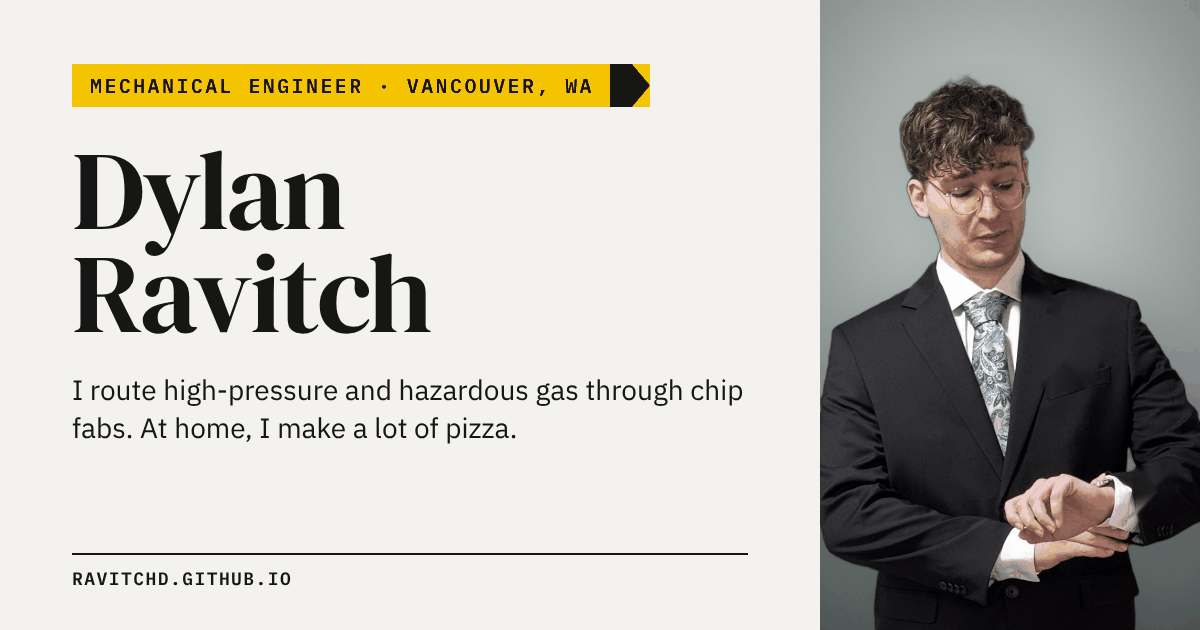
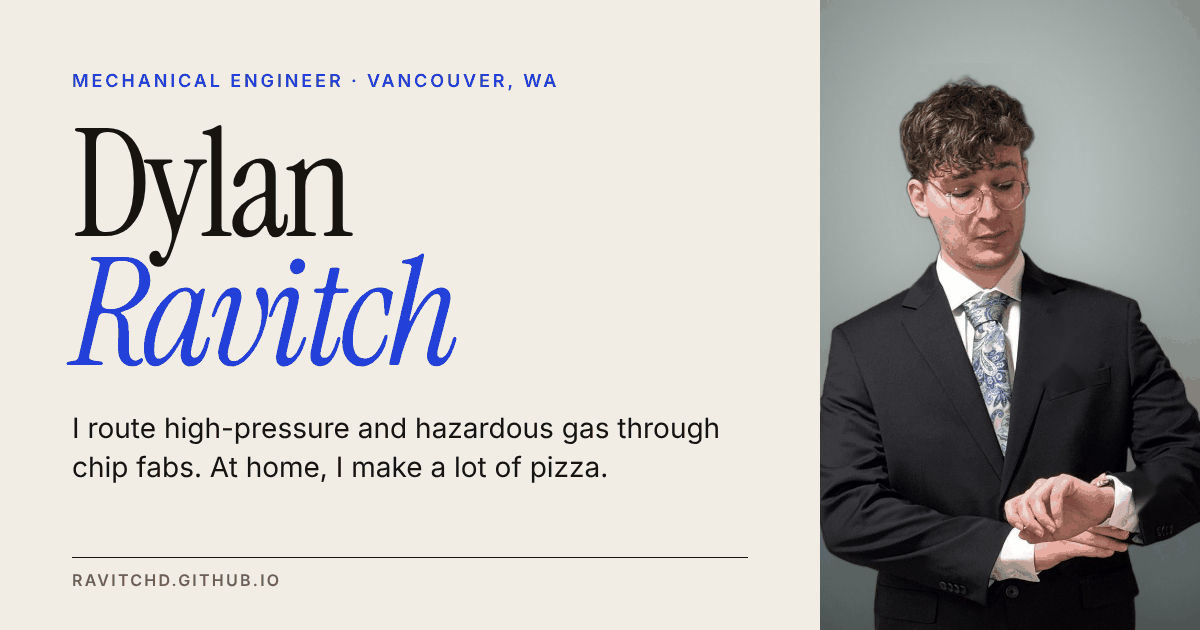
Restore the original fonts and colors, keep the content changes
Dylan preferred Instrument Serif, Inter, cream and cobalt. Bring back
the original global styles, header, favicon and 3D model color, and
redraw the share image in that look. The copy, cuts and redirects stay.

Claude-Session: https://claude.ai/code/session_014t9fN8GL4o5v9xoBywoBxs

Changed region(s): [[0.0617, 0.0905, 0.6167, 0.754], [0.0617, 0.8746, 0.6167, 0.9349], [0.8017, 0.3317, 0.8325, 0.3619]]

diff --git a/src/styles/global.css b/src/styles/global.css
@@ -1,36 +1,30 @@
-/* Everything visual hangs off the tokens below. */
+/* Editorial: the site reads like a magazine profile.
+   Everything visual hangs off the tokens below. */
 :root {
-  /* Paper, ink and graphite, with two working colors borrowed from a fab:
-     marker yellow (ASME A13.1 pipe-marker bands, for labels and link underlines)
-     and redline red (design-review markups, for notes only). */
-  --bg: #f3f2ee;
-  --surface: #f9f8f5;
-  --text: #161615;
-  --muted: #5d5c57;
-  --border: #d3d1c9;
-  --rule: #161615;
-  --accent: #161615;
-  --on-accent: #f3f2ee;
-  --accent-soft: #ebe9e3;
-  --marker: #f5c400;
-  --marker-ink: #161615;
-  --redline: #c8231b;
-  --model: #c8c0a9;
-  --glow-1: #ebe9e3;
-  --glow-2: #e6e4dd;
+  /* Editorial: warm newsprint, ink and one cobalt accent. */
+  --bg: #f1ede4;
+  --surface: #f7f4ec;
+  --text: #17140f;
+  --muted: #6c6457;
+  --border: #d9d1c2;
+  --rule: #17140f;
+  --accent: #2340d8;
+  --on-accent: #ffffff;
+  --accent-soft: #e2e5f6;
+  --glow-1: #e2e5f6;
+  --glow-2: #ece6d8;
   --radius: 0px;
   --pill: 0px;
   --max: 1120px;
-  --display: 'DM Serif Display', Georgia, 'Times New Roman', serif;
-  --sans: 'IBM Plex Sans', system-ui, -apple-system, 'Segoe UI', sans-serif;
-  --mono: 'IBM Plex Mono', ui-monospace, 'SFMono-Regular', Menlo, monospace;
+  --display: 'Instrument Serif', Georgia, serif;
+  --sans: 'Inter', system-ui, -apple-system, 'Segoe UI', sans-serif;
   --heading-weight: 400;
-  --heading-tracking: -0.01em;
-  --h1: clamp(2.7rem, 6.2vw, 5rem);
-  --h2: clamp(1.9rem, 3.4vw, 2.6rem);
-  --h3: 1.45rem;
+  --heading-tracking: -0.012em;
+  --h1: clamp(3rem, 7.2vw, 5.8rem);
+  --h2: clamp(2rem, 3.6vw, 2.8rem);
+  --h3: 1.55rem;
   --label-size: 0.72rem;
-  --label-tracking: 0.12em;
+  --label-tracking: 0.16em;
   color-scheme: light;
 }
 
@@ -58,17 +52,12 @@ h1, h2, h3 {
 h1 { font-size: var(--h1); line-height: 0.98; }
 h2 { font-size: var(--h2); }
 h3 { font-size: var(--h3); }
-h1 em, h2 em { font-style: italic; }
+h1 em, h2 em { font-style: italic; color: var(--accent); }
 
 p { margin: 0 0 1em; }
 
-a {
-  color: var(--text);
-  text-decoration-color: var(--marker);
-  text-decoration-thickness: 3px;
-  text-underline-offset: 3px;
-}
-a:hover { text-decoration-thickness: 0.5em; text-underline-offset: -0.28em; text-decoration-skip-ink: none; }
+a { color: var(--accent); text-underline-offset: 3px; }
+a:hover { text-decoration-thickness: 2px; }
 
 img { max-width: 100%; height: auto; }
 
@@ -82,40 +71,14 @@ button, input, select, textarea { font: inherit; }
 }
 @media (max-width: 600px) { .container { padding: 0 16px; } }
 
-/* Pipe marker: the yellow band and flow arrow used on gas lines in a fab.
-   Labels a section; the arrow points the way the page reads. */
-.eyebrow {
-  display: inline-flex;
-  align-items: stretch;
-  gap: 0.7em;
-  width: fit-content;
-  background: var(--marker);
-  color: var(--marker-ink);
-  font-family: var(--mono);
+/* Small all-caps label above a heading */
+.eyebrow, .label {
+  font-family: var(--sans);
   font-size: var(--label-size);
   font-weight: 600;
   letter-spacing: var(--label-tracking);
-  line-height: 1.2;
   text-transform: uppercase;
-  padding: 0.34em 0 0.34em 0.8em;
-  margin-bottom: 1rem;
-}
-.eyebrow::after {
-  content: '';
-  width: 1.8em;
-  margin-block: -0.34em;
-  background: var(--marker-ink);
-  clip-path: polygon(0 0, 55% 0, 100% 50%, 55% 100%, 0 100%);
-}
-
-/* Small mono label for specs and metadata */
-.label {
-  font-family: var(--mono);
-  font-size: var(--label-size);
-  font-weight: 500;
-  letter-spacing: 0.08em;
-  text-transform: uppercase;
-  color: var(--muted);
+  color: var(--accent);
   margin-bottom: 0.9rem;
 }
 
@@ -139,19 +102,18 @@ button, input, select, textarea { font: inherit; }
 }
 .btn:hover { background: var(--text); color: var(--bg); text-decoration: none; }
 .btn.primary { background: var(--text); border-color: var(--text); color: var(--bg); }
-.btn.primary:hover { background: var(--marker); border-color: var(--marker); color: var(--marker-ink); }
+.btn.primary:hover { background: var(--accent); border-color: var(--accent); color: var(--on-accent); }
 
-/* Tags read as a spec line: TOOL · MATERIAL · PROCESS */
 .tag {
   display: inline-block;
+  padding: 0.12rem 0.5rem;
+  border-radius: var(--pill);
+  border: 1px solid var(--border);
   color: var(--muted);
-  font-family: var(--mono);
-  font-size: 0.72rem;
+  font-size: 0.74rem;
   font-weight: 500;
-  letter-spacing: 0.06em;
-  text-transform: uppercase;
+  letter-spacing: 0.02em;
 }
-.tag + .tag::before { content: '·'; margin: 0 0.55em 0 0; color: var(--border); }
 
 .grid {
   display: grid;
@@ -173,8 +135,8 @@ button, input, select, textarea { font: inherit; }
 }
 .card h3 { margin: 0; transition: color 0.2s ease; }
 .card p { margin: 0; color: var(--muted); font-size: 0.97rem; }
-a.card:hover h3 { text-decoration: underline; text-decoration-color: var(--marker); text-decoration-thickness: 3px; text-underline-offset: 4px; }
-.card .tags { display: flex; flex-wrap: wrap; gap: 4px 0.55em; margin-top: auto; padding-top: 0.5rem; }
+a.card:hover h3 { color: var(--accent); }
+.card .tags { display: flex; flex-wrap: wrap; gap: 6px; margin-top: auto; padding-top: 0.5rem; }
 
 .card .arrow {
   position: absolute;
@@ -200,16 +162,16 @@ a.card:hover .arrow, a.card:focus-visible .arrow { opacity: 1; transform: none; 
 }
 .section-head h2 { margin: 0; }
 .section-head a { color: var(--text); text-decoration: none; font-size: 0.9rem; font-weight: 500; }
-.section-head a:hover { text-decoration: underline; text-decoration-color: var(--marker); text-decoration-thickness: 3px; }
+.section-head a:hover { color: var(--accent); }
 
 .prose { max-width: 700px; }
 .prose h2 { margin-top: 1.6em; }
 .prose ul, .prose ol { padding-left: 1.3em; }
 .prose li { margin-bottom: 0.35em; }
 
-:focus-visible { outline: 2px solid var(--redline); outline-offset: 3px; }
+:focus-visible { outline: 2px solid var(--accent); outline-offset: 3px; }
 
-::selection { background: var(--marker); color: var(--marker-ink); }
+::selection { background: var(--accent); color: var(--on-accent); }
 
 @media (prefers-reduced-motion: no-preference) {
   html { scroll-behavior: smooth; }

diff --git a/src/scripts/prints/viewer.ts b/src/scripts/prints/viewer.ts
@@ -144,10 +144,10 @@ export async function mountPrint(canvas: HTMLCanvasElement, opts: Options): Prom
   scene.add(nozzle);
 
   const applyColors = () => {
-    const model = cssColor('--model', '#c8c0a9');
+    const accent = cssColor('--accent', '#2340d8');
     const text = cssColor('--text', '#17140f');
     const bg = cssColor('--bg', '#f1ede4');
-    material.color.copy(model);
+    material.color.copy(accent).lerp(new THREE.Color(0xffffff), 0.12);
     capMaterial.color.set(0xff8a3d);
     tipMaterial.color.set(0xffb070);
     wireMaterial.color.copy(text);
